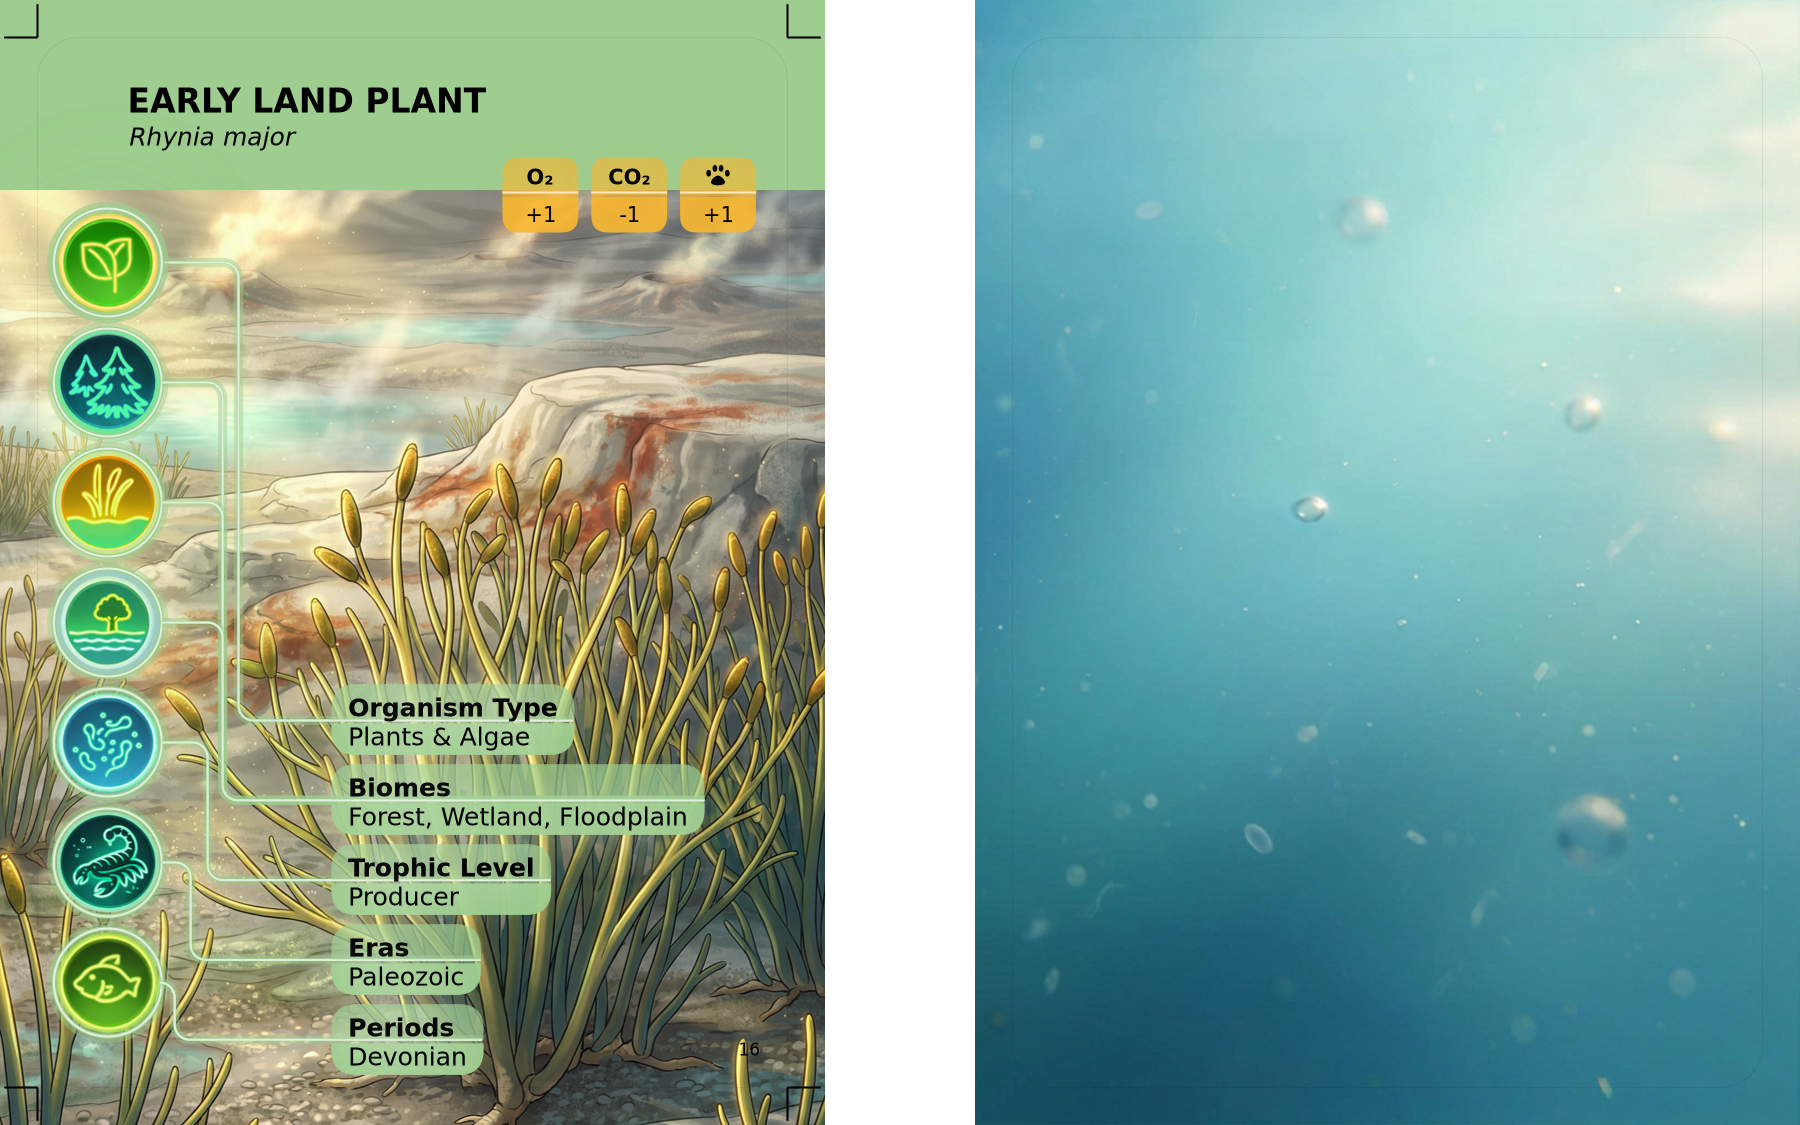
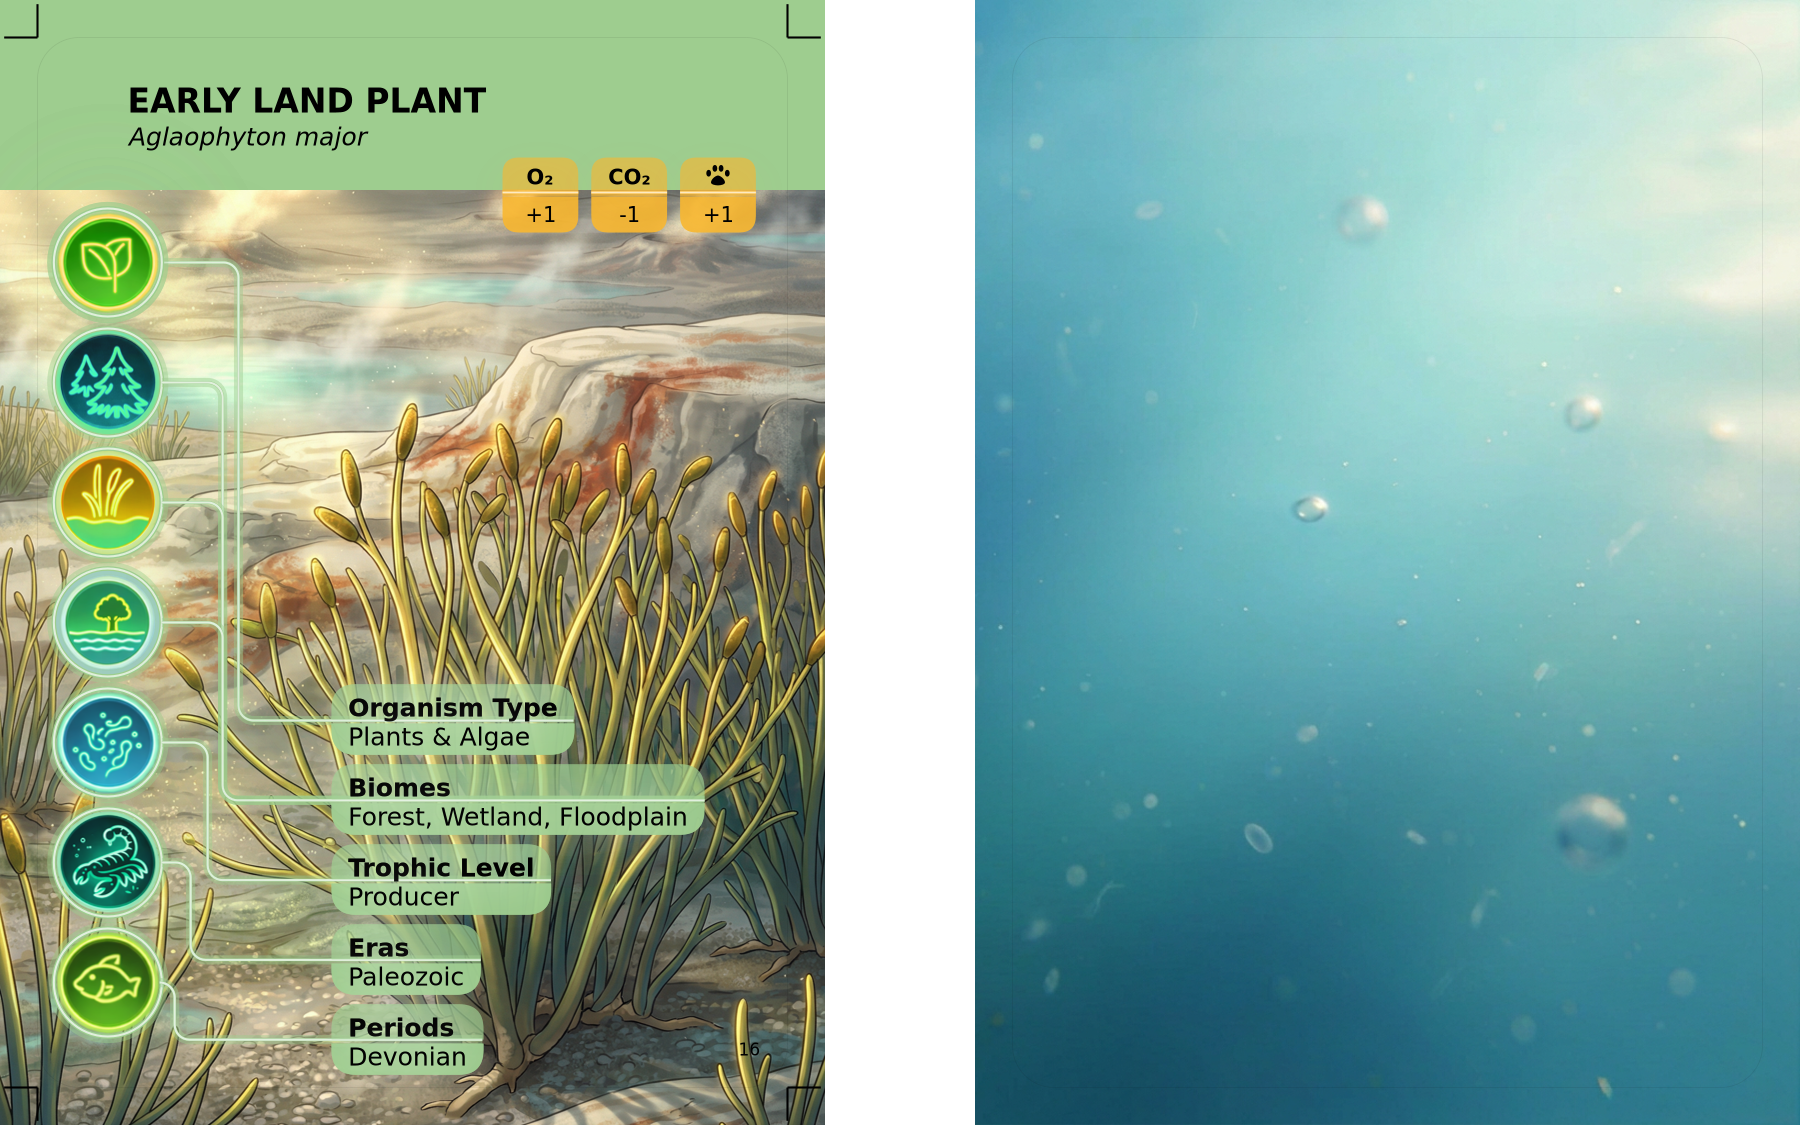
Update manifest and adjust layout for Cards 15 and 16; add new image for Aglaophyton major

Changed region(s): [[0.0, 0.0933, 0.4667, 1.0]]

diff --git a/game/lib/cards/layout-png.js b/game/lib/cards/layout-png.js
@@ -62,6 +62,7 @@ async function drawCardPNG(ctx, xPt, yPt, card, scale, options = {}) {
   const isCard6 = card && card.card_label === 'Card 6';
   const isCard12 = card && card.card_label === 'Card 12';
   const isCard13 = card && card.card_label === 'Card 13';
+  const isCard16 = card && card.card_label === 'Card 16';
   const isCard21 = (card && card.card_label === 'Card 21') ||
     ((card && card.scientific_name || '').toLowerCase() === 'quercus robur');
   const isCard29 = card && card.card_label === 'Card 29';
@@ -181,6 +182,9 @@ async function drawCardPNG(ctx, xPt, yPt, card, scale, options = {}) {
     }
     if (isCard13) {
       mainPhotoY += 3;
+    }
+    if (isCard16) {
+      mainPhotoY -= 40;
     }
     if (isCard21) {
       mainPhotoX += 25;
